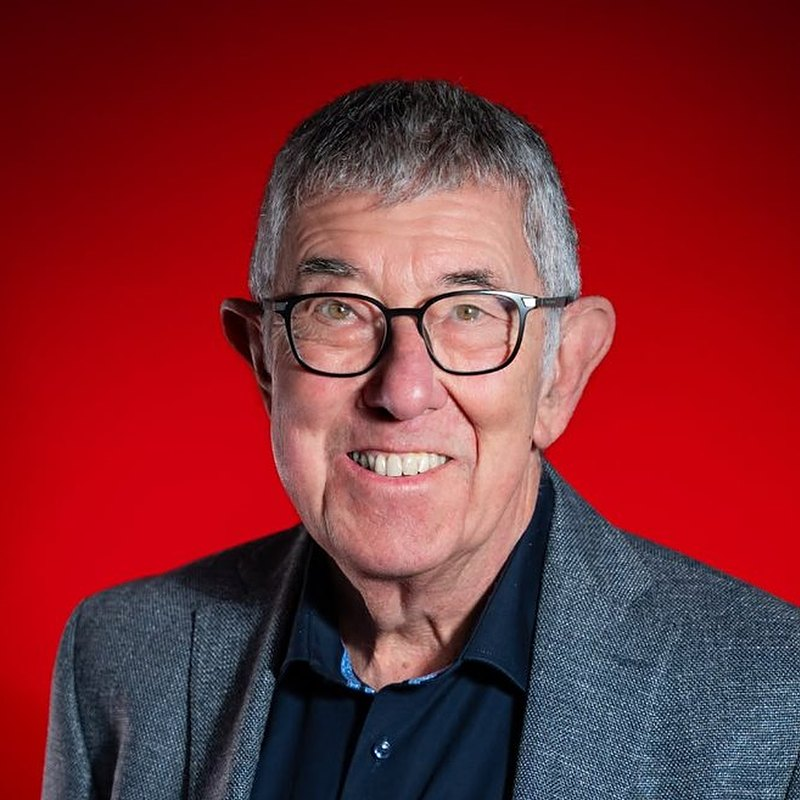
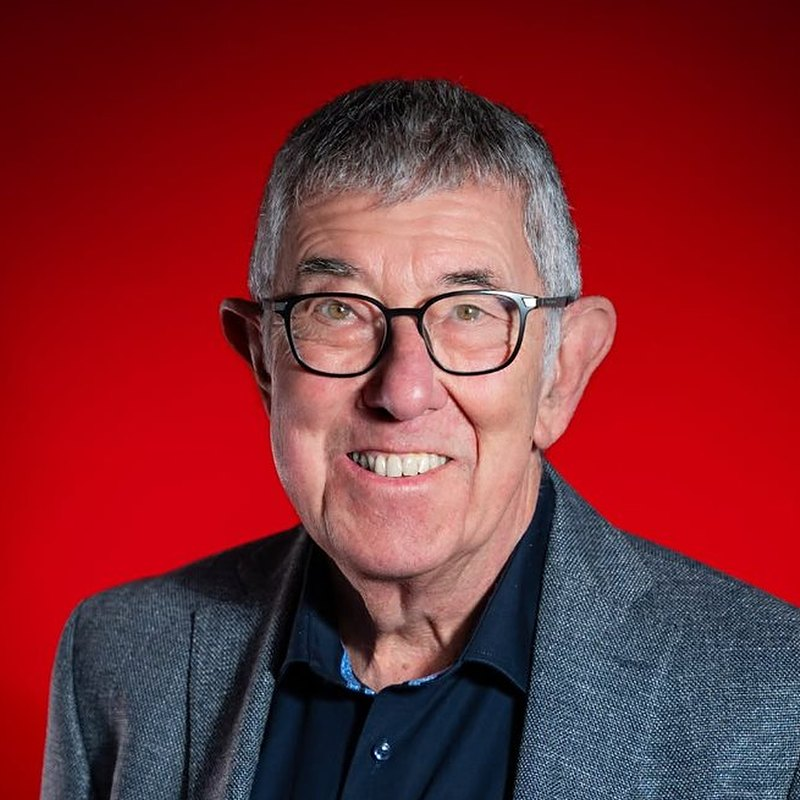
Fraktionsfotos: Köpfe exakt gleich groß, auf dem Handy feste Bildgröße
Kopfgröße jetzt aus Augenabstand und Kopfhöhe (Scheitel bis Kinn, gemessen
in tools/fraktion-fotos/masse.json) statt nur aus dem Augenabstand. Auf dem
Handy wuchs das Kartenfoto mit der Textlänge mit; jetzt überall 1:1 und
in jeder Ansicht gleich groß.

diff --git a/src/styles.css b/src/styles.css
@@ -2278,8 +2278,8 @@ a.box.foto:hover>.foto-bg{transform:scale(1.07)}
 @container site (max-width:560px){
   .fk-grid{grid-template-columns:minmax(0,1fr);gap:14px}
   .fk{grid-template-columns:118px minmax(0,1fr);grid-template-rows:auto}
-  .fk-bild,.fk-foto{height:100%}
-  .fk-foto{aspect-ratio:auto;min-height:150px;font-size:30px}
+  .fk-bild{align-self:start}
+  .fk-foto{aspect-ratio:1/1;font-size:30px}
   .fk-text{border-top:0;border-left:4px solid var(--rot);padding:14px 14px 16px;gap:8px}
   .fk-name{font-size:22px}
   .fk-haupt{font-size:15.5px}

diff --git a/tools/fraktion-fotos/zuschneiden.py b/tools/fraktion-fotos/zuschneiden.py
@@ -1,6 +1,8 @@
 # Schneidet die Fraktionsfotos einheitlich zu: quadratisch, Kopf und Schultern, alle Köpfe gleich groß,
 # Augen auf gleicher Höhe. Quelle: tools/fraktion-fotos/original/<slug>.jpg  ->  src/images/fraktion/<slug>.jpg
 # Es wird nur die Lage der Augen bestimmt (OpenCV-Kaskaden), keine Person erkannt.
+# Kopfgröße = Mittel aus Augenabstand und Kopfhöhe (Scheitel bis Kinn, von Hand gemessen in masse.json).
+# Nur der Augenabstand allein täuscht bei leicht gedrehten Köpfen, nur die Kopfhöhe bei Frisur und Bart.
 # Aufruf:  python tools/fraktion-fotos/zuschneiden.py  [--rahmen 6.2] [--augen 0.39]
 import argparse, glob, os
 import cv2, numpy as np
@@ -34,13 +36,22 @@ def augenpaar(g):
                 return (x + l[0] + l[2] / 2, oy + l[1] + l[3] / 2), (x + r[0] + r[2] / 2, oy + r[1] + r[3] / 2)
     raise SystemExit('Augen nicht gefunden')
 
+import json
+MASSE = {k: v for k, v in json.load(open(os.path.join(HIER, 'masse.json'), encoding='utf-8')).items() if not k.startswith('_')}
 os.makedirs(a.ziel, exist_ok=True)
+daten = {}
 for pfad in sorted(glob.glob(os.path.join(QUELLE, '*.jpg'))):
-    name = os.path.basename(pfad)
-    bild = cv2.imread(pfad); H, W = bild.shape[:2]
+    bild = cv2.imread(pfad)
     (lx, ly), (rx, ry) = augenpaar(cv2.cvtColor(bild, cv2.COLOR_BGR2GRAY))
-    d = ((rx - lx) ** 2 + (ry - ly) ** 2) ** .5
-    seite = d * a.rahmen
+    daten[pfad] = (bild, lx, ly, rx, ry, ((rx - lx) ** 2 + (ry - ly) ** 2) ** .5)
+# Verhältnis Kopfhöhe : Augenabstand im Mittel aller Fotos
+K = sum((MASSE[os.path.basename(p)[:-4]]['kinn'] - MASSE[os.path.basename(p)[:-4]]['scheitel']) / v[5] for p, v in daten.items()) / len(daten)
+bericht = []
+for pfad, (bild, lx, ly, rx, ry, d) in daten.items():
+    name = os.path.basename(pfad); H, W = bild.shape[:2]
+    m = MASSE[name[:-4]]; kopf = m['kinn'] - m['scheitel']
+    d_eff = (d + kopf / K) / 2
+    seite = d_eff * a.rahmen
     mx, my = (lx + rx) / 2, (ly + ry) / 2
     x0, y0 = mx - seite / 2, my - seite * a.augen
     # Ragt der Ausschnitt oben/seitlich etwas über das Foto hinaus, wird der rote Hintergrund gespiegelt fortgesetzt
@@ -53,4 +64,8 @@ for pfad in sorted(glob.glob(os.path.join(QUELLE, '*.jpg'))):
     faktor = a.groesse / seite
     if faktor > 1.05: pil = pil.filter(ImageFilter.UnsharpMask(radius=1.2, percent=40, threshold=2))
     pil.save(os.path.join(a.ziel, name), quality=86, optimize=True, progressive=True)
-    print(f'{name:22s} Augenabstand {d:5.1f}px  Ausschnitt {seite:5.0f}px  Vergrößerung {faktor:.2f}  Rand {rand}px')
+    bericht.append((name, d * faktor, kopf * faktor, (m['scheitel'] - y0) * faktor, (m['kinn'] - y0) * faktor, faktor, rand))
+print(f'Kopfhöhe/Augenabstand im Mittel: {K:.2f}')
+print('Foto                   Augenabstand  Kopfhöhe  Scheitel  Kinn   (Pixel im fertigen Bild)  Vergr.  Rand')
+for n, dd, kk, sc, ki, f, r in bericht:
+    print(f'{n:22s} {dd:8.1f}  {kk:9.1f}  {sc:8.1f}  {ki:6.1f}                          {f:5.2f}  {r:4d}')
